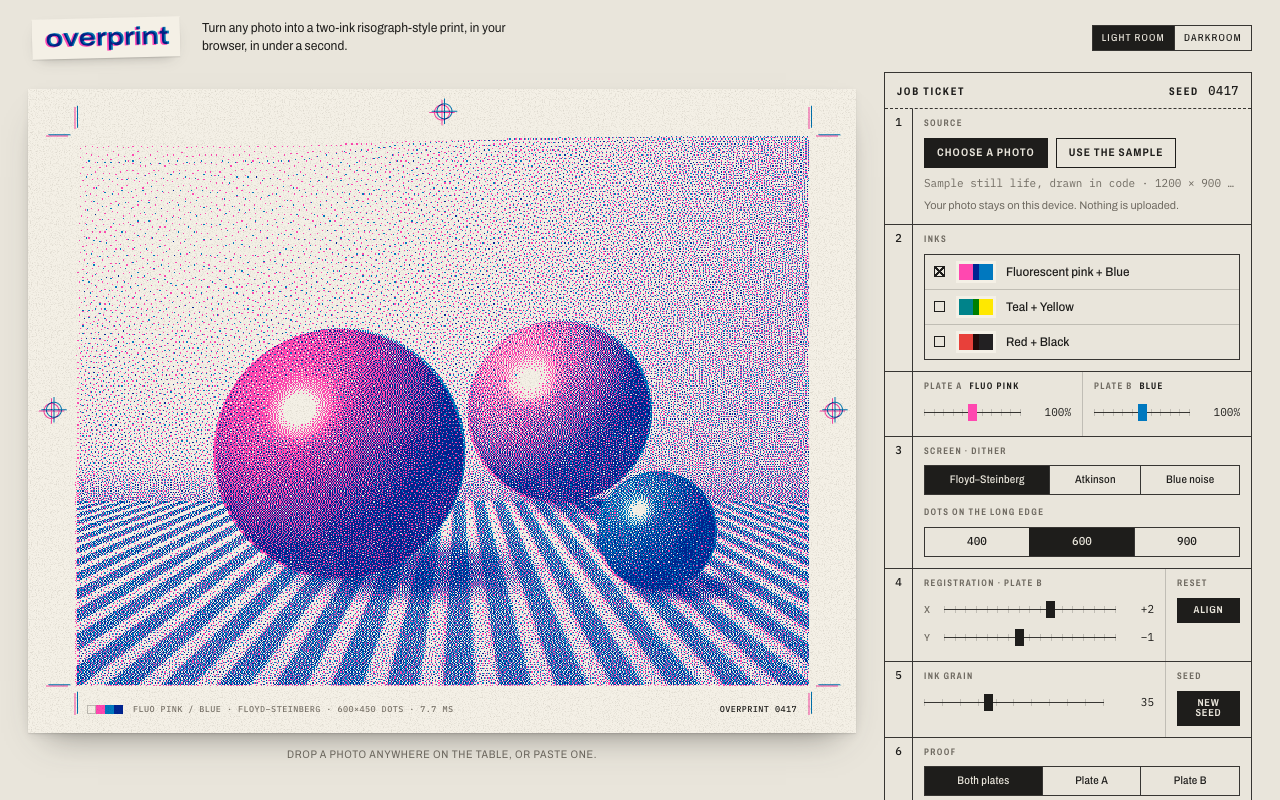
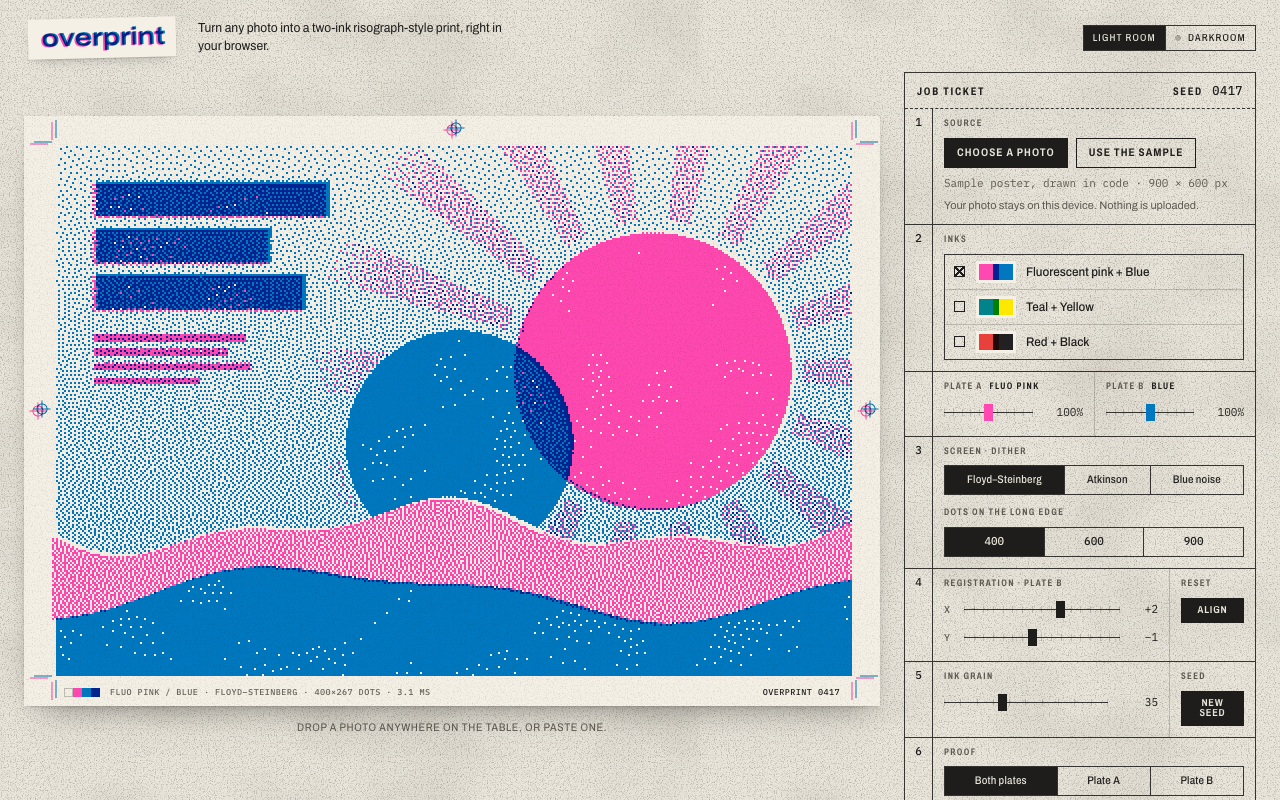
README: new sample, export sizes, intake limits, deploy note; new screenshot
- Describe the poster sample, the 400-dot default and whole-pixel preview.
- Export sizes now match the page: 2400 px at 400/600 dots, 2700 at 900.
- Document the 100-megapixel cap, the 900-px working copy, SVG and HEIC.
- Note that there is no deploy script on purpose and that the owner deploys
  via a guarded script; explain why no cache max-age is set.
- Document REQUIRE_BROWSER=1 for CI and the new Node test files.
- Screenshot re-taken at 1280 x 800 (light room).

diff --git a/README.md b/README.md
@@ -1,19 +1,19 @@
 # overprint
 
-Turn any photo into a two-ink risograph-style print, in your browser, in under a second.
+Turn any photo into a two-ink risograph-style print, right in your browser.
 
-![overprint: a still life printed in fluorescent pink and blue, lying on the table with registration and crop marks, next to the job ticket](docs/screenshot.png)
+![overprint: a sample poster (a sun, a blue disc, hills and headline bars) printed in fluorescent pink and blue with visible grain, lying on the table with registration and crop marks, next to the job ticket](docs/screenshot.png)
 
 overprint splits a photo into two spot-ink plates, dithers each plate into dots, knocks the second plate slightly out of register, adds ink grain, and overprints the two inks on paper, multiplying them the way real transparent ink does. All the image processing is Rust compiled to WebAssembly. Your photo never leaves the device.
 
 ## The 30-second experience
 
-1. Open the page. A sample still life is already on the press. It is drawn in code, so there is no photograph and no copyright.
+1. Open the page. A sample poster is already on the press: big flat shapes, a few tints and a headline, so the grain, the overprint and the mis-registration show at a glance. It is drawn in code as two plates (no photograph, no copyright) and repainted in whichever inks you pick.
 2. Drop, paste or choose your own photo.
 3. Pick an ink pair: **fluorescent pink + blue**, **teal + yellow**, or **red + black**.
-4. Pick a screen: **Floyd–Steinberg**, **Atkinson** or **blue-noise** dithering, at 400, 600 or 900 dots on the long edge.
+4. Pick a screen: **Floyd–Steinberg**, **Atkinson** or **blue-noise** dithering, at 400 (the default, coarse like a real stencil print), 600 or 900 dots on the long edge. Where there is room, the preview draws every dot as a whole number of screen pixels, so the grain stays crisp.
 5. Slide plate B out of register (the registration marks on the sheet drift apart too), add ink grain, change each plate's density, or proof one plate on its own.
-6. **Export PNG**: dots are scaled up without blurring, to about 2400 px on the long edge.
+6. **Export PNG**: each dot becomes a crisp square of whole pixels, so the long edge is at least 2400 px: exactly 2400 px at 400 or 600 dots, and 2700 px at 900. The page shows the exact size next to the button.
 7. Tick **Race plain JavaScript** to time the same job in both engines on your own machine. You get the median of 7 alternating runs, plus a byte-for-byte check that both outputs are identical.
 
 ## How it works
@@ -27,7 +27,7 @@ overprint splits a photo into two spot-ink plates, dithers each plate into dots,
 
 **Deterministic by construction.** Every step uses integer maths only (wrapping `u32` hashes, arithmetic shifts, truncating `i64` division) and every random choice is seeded. The same resized pixels and settings give the same bytes everywhere. The tests pin golden fingerprints that native Rust, the wasm32 build and the JavaScript reference all have to hit.
 
-`web/reference.js` is a line-for-line plain-JavaScript port. It exists for the speed race, and as a clearly labelled fallback if WebAssembly fails to load. `web/app.js` handles the page: file loading, canvas drawing, layout and export.
+`web/reference.js` is a line-for-line plain-JavaScript port. It exists for the speed race, and as a clearly labelled fallback if WebAssembly fails to load. `web/app.js` handles the page: file loading, canvas drawing, layout and export. `web/intake.js` checks a file before the browser decodes it (see *Large or unusual images* below).
 
 ## Why Rust → WebAssembly
 
@@ -40,7 +40,7 @@ overprint splits a photo into two spot-ink plates, dithers each plate into dots,
 
 Requirements:
 
-- Rust (stable) with the `wasm32-unknown-unknown` target
+- Rust 1.88 or newer (declared as `rust-version` in `Cargo.toml`) with the `wasm32-unknown-unknown` target
 - `wasm-bindgen-cli` **0.2.129** (it must match the version pinned in `Cargo.toml`)
 - Node.js 20 or newer
 - Optional: `wasm-opt` (binaryen) for an extra size pass. The build skips it if it is not installed.
@@ -77,13 +77,17 @@ npm test          # cargo test, then npm run build, then node --test tests/*.tes
   - the golden fingerprints
 - **Smoke** (`tests/smoke.test.mjs`) checks that `dist/index.html` loads `app.js`, which imports the wasm-bindgen module, that every local asset exists, that the `.wasm` validates and renders, and that the CSP allows WebAssembly.
 - **Browser** (`tests/browser.test.mjs`) runs real headless Chrome through the DevTools protocol against `dist/`, served with the production headers. It checks:
-  - the page renders with the WebAssembly engine
+  - the page renders with the WebAssembly engine, starting on the sample poster at 400 dots, 2 screen pixels per dot at 1280 × 800
   - the in-page race finds identical output
-  - a text file and a corrupt PNG both produce clear messages
+  - a text file, a corrupt PNG, an SVG and a 200-megapixel PNG header all produce clear messages, and the print stays
   - there are no console errors or uncaught exceptions
   - there is no horizontal scroll at 400 px, in both themes
 
-  The test skips if Chrome is not found; set `CHROME_PATH` to point at one.
+  The test skips if Chrome is not found; set `CHROME_PATH` to point at one. **In CI, set `REQUIRE_BROWSER=1`**: then a missing Chrome fails the run instead of skipping (`tests/browser-flag.test.mjs` checks both behaviours).
+- **Page logic** runs in Node without a browser:
+  - `tests/intake.test.mjs`: format sniffing, the SVG message, the 100-megapixel cap and the working-copy size
+  - `tests/sizes.test.mjs`: the export sizes quoted above, and whole-pixel preview scaling
+  - `tests/contrast.test.mjs`: text colours reach WCAG AA (4.5:1) in both rooms, read straight from `styles.css`
 
 ## Cloudflare (free tier, static only)
 
@@ -96,12 +100,16 @@ npm run build
 npx wrangler pages deploy dist --project-name overprint
 ```
 
+There is deliberately no `npm run deploy` script and no `account_id` in `wrangler.toml`: the plain command above uses whatever Cloudflare login is active, which is fine for your own copy. The owner deploys this project through a separate, guarded script that checks which account it is about to use.
+
 Direct upload is the intended path, because Pages' own build image is not assumed to have Rust and wasm-bindgen installed. `dist/_headers` sets:
 
 - a strict Content-Security-Policy (`script-src 'self' 'wasm-unsafe-eval'`, no inline scripts or styles)
 - `nosniff`
 - `no-referrer`
 - a locked-down Permissions-Policy
+
+No long cache lifetime is set: `app.js`, `pkg/overprint.js` and `pkg/overprint_bg.wasm` keep fixed names, so a `max-age` could pair a fresh `app.js` with a stale engine after a redeploy. Pages' default (revalidate every time) avoids that.
 
 ## Privacy
 
@@ -113,13 +121,17 @@ Direct upload is the intended path, because Pages' own build image is not assume
 
 - **Ink colours are on-screen sRGB approximations** chosen by eye, not measured ink data. Real spot inks, paper and presses will look different, and no screen can show fluorescent ink.
 - **The separation is a linear least-squares fit** in absorption space: a good-looking approximation, not a colour-managed separation. Colours two inks cannot make are clamped to the nearest printable mix. A saturated green, for example, cannot come out of pink + blue.
-- **"Same result on every machine" starts after resizing.** Photos are first resized to 400/600/900 dots with the browser's canvas, and that resampling can differ slightly between browsers. From those pixels onward, the engine is bit-exact.
+- **"Same result on every machine" starts after resizing.** Photos are first resized with the browser's canvas (once to a 900-px working copy, then to 400/600/900 dots), and that resampling can differ slightly between browsers. From those pixels onward, the engine is bit-exact.
 - **Mis-registration is a whole-dot shift** of plate B only. There is no rotation, skew or paper stretch.
 - **Timings come from `performance.now()`**, which browsers deliberately coarsen (often to about 0.1 ms). Each race uses one warm-up run and 7 alternating timed runs per engine. The single-render time shown under Output is one run.
-- **Rendering runs on the main thread.** It takes only milliseconds at these sizes, but larger outputs would want a Web Worker.
+- **Rendering runs on the main thread.** It is quick at these sizes (the page shows the measured time for each print), but larger outputs would want a Web Worker.
+- **Whole-pixel preview needs room.** On a phone with 2 screen pixels per CSS pixel, 400 dots cannot fit at a whole number of pixels per dot without shrinking the print to about half the screen, so the preview fits the space instead and the dots are drawn 1–2 pixels wide.
 - **Large or unusual images:**
-  - Photos are decoded at full size before resizing, and files over 80 MB are refused.
-  - Some browsers cannot open HEIC; the page says so and suggests JPG or PNG.
+  - Before decoding, the page reads the file's first bytes to find its real format and, for PNG, JPEG, GIF, WebP and BMP, its size in pixels. Files over 80 MB or 100 megapixels are refused with a message that gives the numbers.
+  - If a JPEG's size is buried beyond the first 256 KB, it is decoded first and then checked against the same cap.
+  - Each photo is decoded once, drawn into a working copy no bigger than 900 px on the long edge (the largest dot count), and the full-size decode is released straight away.
+  - SVG drawings are not supported; the page says so and asks for a photo (JPEG, PNG or WebP).
+  - Some browsers cannot open HEIC; if the file really is HEIC, the page says so and suggests saving it as JPEG.
 
 ## Next
 
